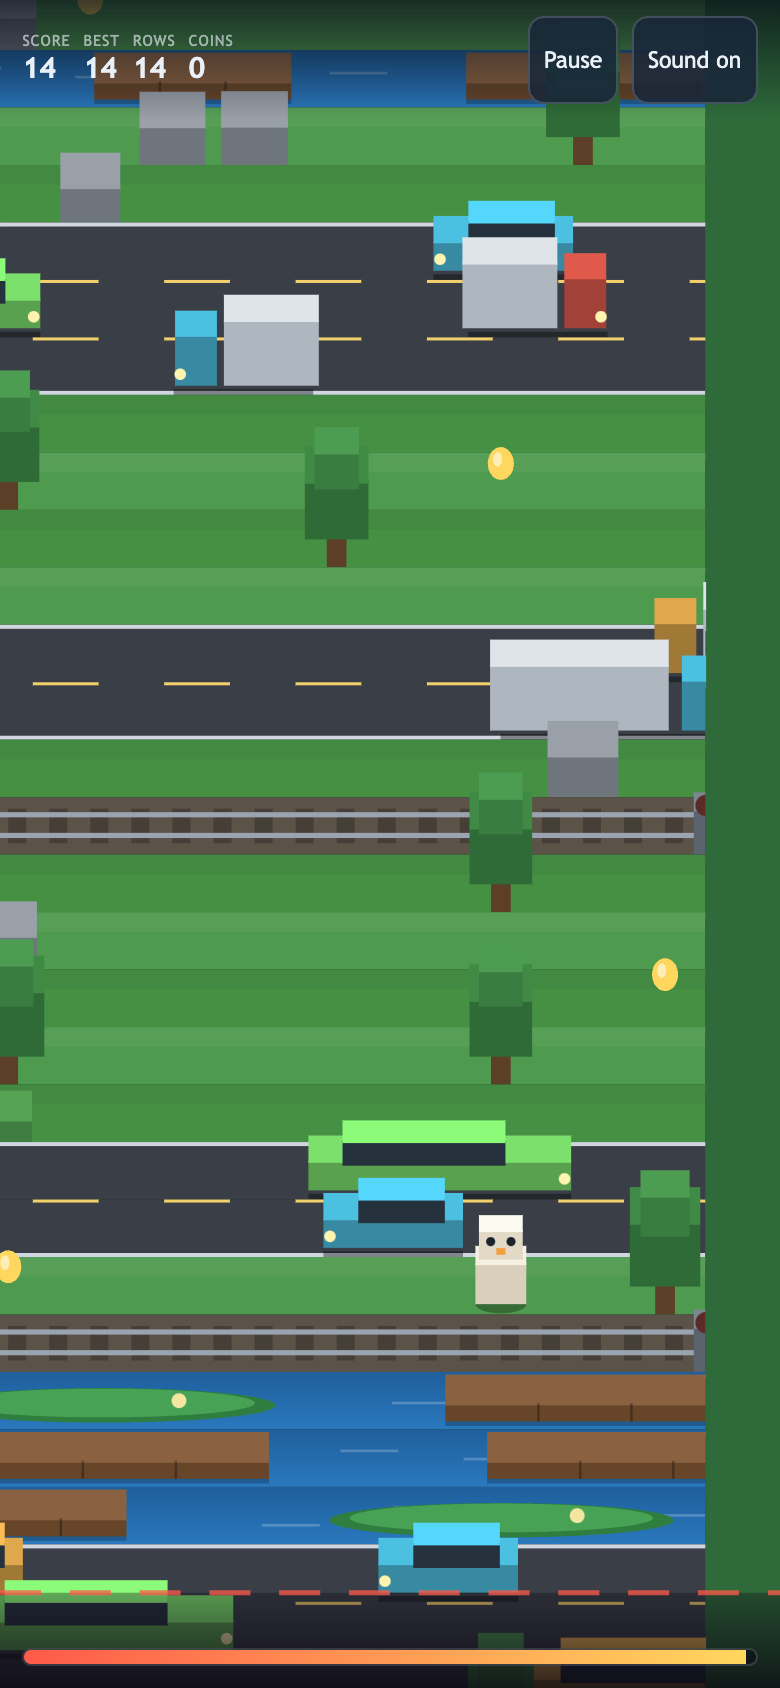
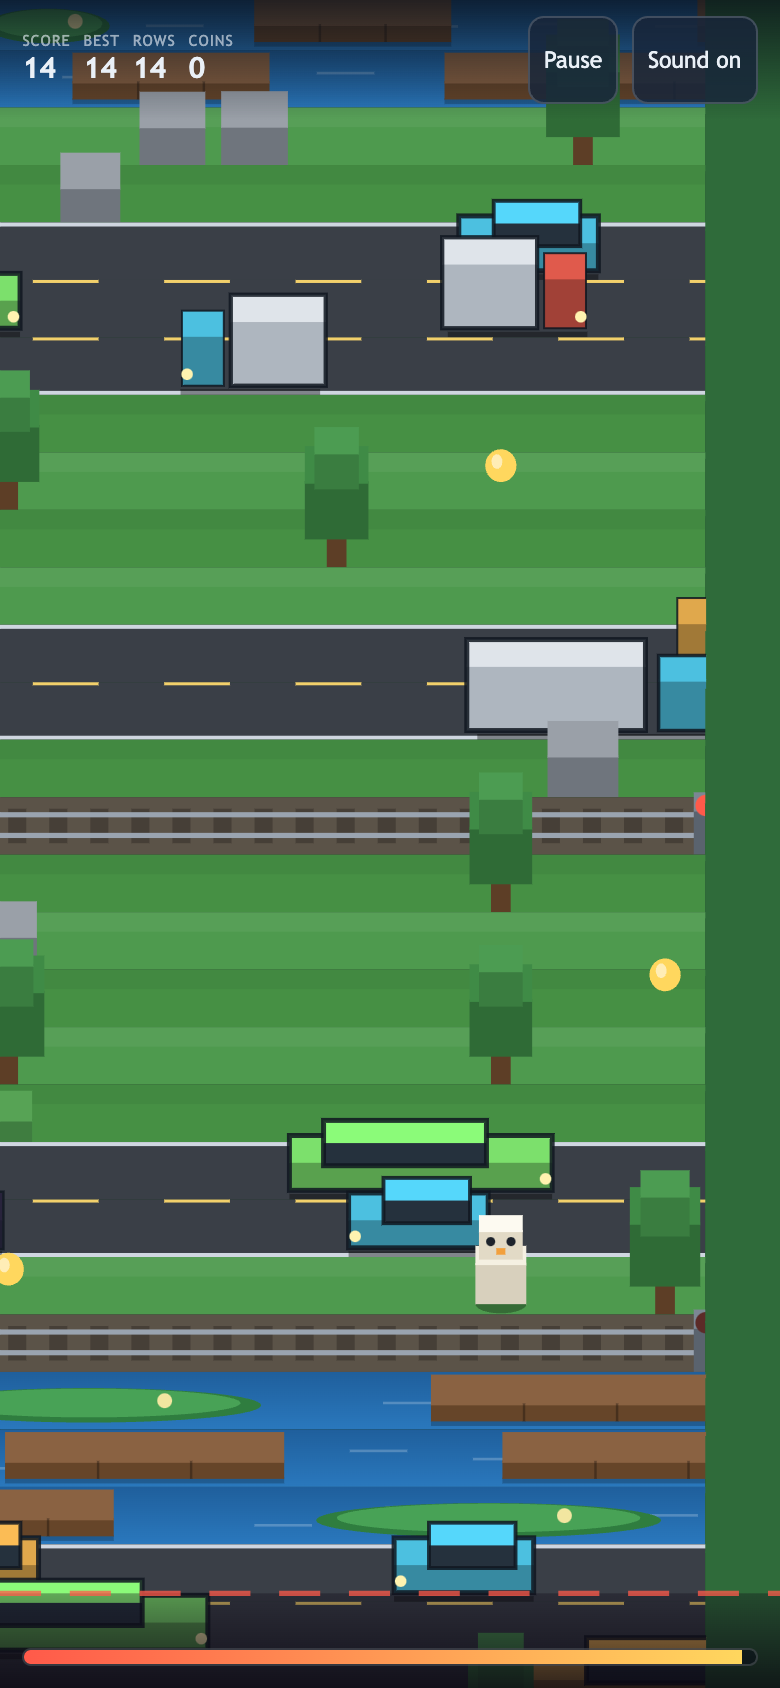
Give vehicles a dark rim so they separate from the asphalt
The warm body hues sit on #3a3f47 asphalt below a 3:1 ratio. box() gains an
optional outline that strokes the silhouette its own two faces cover, and each
part of a vehicle is outlined separately - a car is two boxes of different
widths, so a single bounding stroke leaves bars past the narrower cabin, which
is why the first attempt was reverted.

Dark rather than white: it separates the car from the road without bleaching
the toy palette. Line weight is clamped so a wide truck does not get a much
heavier rim than a small car. Renderer-only, so collision and scoring are
untouched.

Verified by opening the captured frame, not by assuming: docs/shots/mobile-polish/after-390x844-2-play.png.

diff --git a/src/game/render.ts b/src/game/render.ts
@@ -331,12 +331,16 @@ export class Renderer {
     const body = hues[Math.floor(m.tint * hues.length) % hues.length]!;
     ctx.fillStyle = 'rgba(0,0,0,0.38)';
     ctx.fillRect(cx - w / 2, ground - rowH * 0.1, w, rowH * 0.12);
+    // The warm body hues sit on #3a3f47 asphalt below a 3:1 ratio, so this dark
+    // rim is a readability requirement, not decoration. Dark rather than white:
+    // it separates the car from the road without bleaching the toy palette.
+    const rim = 'rgba(15,22,32,0.85)';
     if (m.kind === 'truck') {
-      this.box(cx + dir * w * 0.34, ground - rowH * 0.16, w * 0.3, rowH * 0.42, tile * 0.62, body, this.shade(body, 0.72));
-      this.box(cx - dir * w * 0.2, ground - rowH * 0.16, w * 0.68, rowH * 0.44, tile * 0.8, '#dfe4ea', '#aeb6bf');
+      this.box(cx + dir * w * 0.34, ground - rowH * 0.16, w * 0.3, rowH * 0.42, tile * 0.62, body, this.shade(body, 0.72), rim);
+      this.box(cx - dir * w * 0.2, ground - rowH * 0.16, w * 0.68, rowH * 0.44, tile * 0.8, '#dfe4ea', '#aeb6bf', rim);
     } else {
-      this.box(cx, ground - rowH * 0.16, w, rowH * 0.44, tile * 0.36, body, this.shade(body, 0.72));
-      this.box(cx - dir * w * 0.06, ground - rowH * 0.16 - tile * 0.3, w * 0.62, rowH * 0.36, tile * 0.3, this.shade(body, 1.12), '#25313d');
+      this.box(cx, ground - rowH * 0.16, w, rowH * 0.44, tile * 0.36, body, this.shade(body, 0.72), rim);
+      this.box(cx - dir * w * 0.06, ground - rowH * 0.16 - tile * 0.3, w * 0.62, rowH * 0.36, tile * 0.3, this.shade(body, 1.12), '#25313d', rim);
     }
     // Headlights on the leading end read the direction of travel at a glance.
     ctx.fillStyle = '#fff3b0';
@@ -511,13 +515,26 @@ export class Renderer {
 
   /* --------------------------------------------------------------- helpers */
 
-  /** One chunky solid: a front face plus a lighter top face. */
-  private box(cx: number, groundY: number, w: number, depth: number, height: number, top: string, front: string): void {
+  /** One chunky solid: a front face plus a lighter top face. `outline` strokes
+   *  the silhouette the two faces actually cover, which is a single rect from
+   *  the top face's top edge down to the ground. Stroking a bounding box around
+   *  a multi-part sprite instead leaves bars sticking out past the narrower
+   *  part, so callers outline each part separately. */
+  private box(
+    cx: number, groundY: number, w: number, depth: number, height: number,
+    top: string, front: string, outline?: string,
+  ): void {
     const ctx = this.ctx;
     ctx.fillStyle = front;
     ctx.fillRect(cx - w / 2, groundY - height, w, height);
     ctx.fillStyle = top;
     ctx.fillRect(cx - w / 2, groundY - height - depth, w, depth + 1);
+    if (!outline) return;
+    ctx.save();
+    ctx.strokeStyle = outline;
+    ctx.lineWidth = Math.max(1, Math.min(w * 0.045, 2.5));
+    ctx.strokeRect(cx - w / 2, groundY - height - depth, w, height + depth);
+    ctx.restore();
   }
 
   private shade(hex: string, f: number): string {

diff --git a/README.md b/README.md
@@ -230,6 +230,11 @@ What changed:
   cost responsiveness without the fairness.)
 - **Destination preview.** The landing cell is marked while a hop is in flight,
   with a dashed marker for a buffered press behind it.
+- **Vehicle contrast.** The warm body hues sit on `#3a3f47` asphalt below a 3:1
+  ratio, so vehicles now carry a dark rim. It is stroked around each face the
+  sprite actually draws rather than around a bounding box - a car is two boxes
+  of different widths, and a bounding stroke leaves bars sticking out past the
+  narrower cabin (that first attempt is reverted in `b595b15`).
 - **Reduced motion.** Screen shake and the throbbing danger vignette are
   dropped under `prefers-reduced-motion`. Both live in the renderer and feed
   nothing back into the simulation, so collision and scoring are unchanged.
